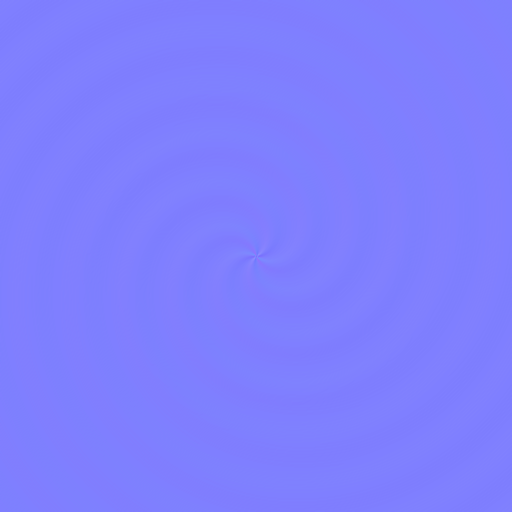
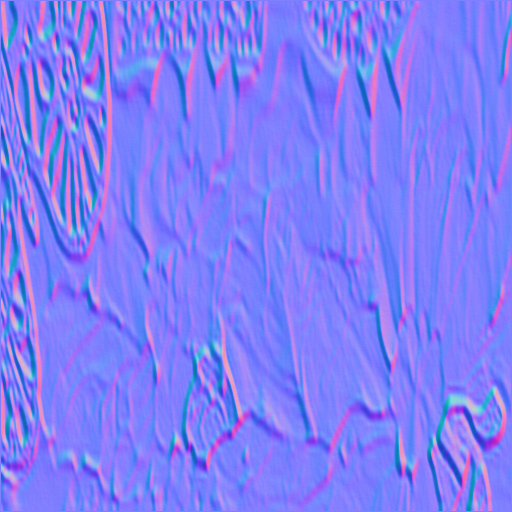
Align front facade of interactive 3D birthday cake, add seamless 360 normal-mapped buttercream, fix tier shelf icing, and verify blowout sequence

diff --git a/page5.html b/page5.html
@@ -538,18 +538,18 @@
     renderer.setPixelRatio(Math.min(window.devicePixelRatio, 2));
     renderer.setSize(window.innerWidth, window.innerHeight);
     renderer.toneMapping = THREE.ACESFilmicToneMapping;
-    renderer.toneMappingExposure = 1.06;
+    renderer.toneMappingExposure = 0.96;
     container.appendChild(renderer.domElement);
 
     // Warm Ambient & Physical Key Lighting
-    const ambientLight = new THREE.AmbientLight(0xfff6ea, 1.05);
+    const ambientLight = new THREE.AmbientLight(0xfff6ea, 0.70);
     scene.add(ambientLight);
 
-    const keySunlight = new THREE.DirectionalLight(0xffeed8, 1.35);
+    const keySunlight = new THREE.DirectionalLight(0xffeed8, 0.95);
     keySunlight.position.set(3.5, 6.0, 4.5);
     scene.add(keySunlight);
 
-    const warmFillLight = new THREE.DirectionalLight(0xffd8b0, 0.85);
+    const warmFillLight = new THREE.DirectionalLight(0xffd8b0, 0.45);
     warmFillLight.position.set(-3.8, 3.2, 3.0);
     scene.add(warmFillLight);
 
@@ -559,11 +559,11 @@
 
     // Candlelight PointLights
     const candleLightLeft = new THREE.PointLight(0xffaa33, 2.6, 6.5, 1.5);
-    candleLightLeft.position.set(-0.34, 2.72, 0.15);
+    candleLightLeft.position.set(-0.34, 3.12, 0.15);
     scene.add(candleLightLeft);
 
     const candleLightRight = new THREE.PointLight(0xffaa33, 2.6, 6.5, 1.5);
-    candleLightRight.position.set(0.34, 2.72, 0.15);
+    candleLightRight.position.set(0.34, 3.12, 0.15);
     scene.add(candleLightRight);
 
     const candleLight = candleLightLeft;
@@ -706,6 +706,8 @@
     const tier2NormalMap = textureLoader.load('images/cake_tier2_normal.png');
     const tierTopMap = textureLoader.load('images/cake_top_diffuse.png');
     const tierTopNormal = textureLoader.load('images/cake_top_normal.png');
+    const tierShelfMap = textureLoader.load('images/cake_tier_shelf.png');
+    const tierShelfNormal = textureLoader.load('images/cake_tier_shelf_normal.png');
 
     function generateFiligreeButterflyTexture() {
       const c = document.createElement('canvas');
@@ -973,8 +975,16 @@
       metalness: 0.03
     });
 
-    const materialsTier1 = [tier1SideMat, tierTopMat, tierTopMat];
-    const materialsTier2 = [tier2SideMat, tierTopMat, tierTopMat];
+    const tierShelfMat = new THREE.MeshStandardMaterial({
+      map: tierShelfMap,
+      normalMap: tierShelfNormal,
+      normalScale: new THREE.Vector2(0.6, 0.6),
+      roughness: 0.45,
+      metalness: 0.02
+    });
+
+    const materialsTier1 = [tier1SideMat, tierShelfMat, tierShelfMat];
+    const materialsTier2 = [tier2SideMat, tierTopMat, tierShelfMat];
     const tier1ButtercreamMat = tier1SideMat;
     const tier2ButtercreamMat = tier2SideMat;
 
@@ -1102,7 +1112,7 @@
 
     const tier1Bevel = new THREE.Mesh(
       new THREE.TorusGeometry(1.93, 0.032, 10, 64),
-      tierTopMat
+      tierShelfMat
     );
     tier1Bevel.rotation.x = Math.PI / 2;
     tier1Bevel.position.y = 1.255;
@@ -1221,17 +1231,8 @@
       return bGroup;
     }
 
-    // Butterfly 1: Tier 1, front-left (matching photo!)
-    const butterfly1 = createRoseGoldButterfly(1.25, 0.50);
-    butterfly1.position.set(-1.32, 0.64, 1.48);
-    butterfly1.rotation.set(-0.15, 0.72, -0.22);
-    cakeGroup.add(butterfly1);
-
-    // Butterfly 2: Tier 2, front-right (matching photo!)
-    const butterfly2 = createRoseGoldButterfly(1.20, 0.48);
-    butterfly2.position.set(0.98, 1.82, 0.88);
-    butterfly2.rotation.set(-0.10, -0.68, 0.18);
-    cakeGroup.add(butterfly2);
+    // Butterfly 1 & 2 are authentically preserved in the photographic normal-mapped buttercream facade!
+    // Butterfly 3 perches proudly on the top-tier rim with realistic 3D fluttering wings in space:
 
     // Butterfly 3: Tier 2, top-left rim (matching photo!)
     const butterfly3 = createRoseGoldButterfly(1.30, 0.52);
@@ -1246,7 +1247,7 @@
       const curve = new THREE.CatmullRomCurve3(
         points.map((p) => new THREE.Vector3(p[0] + offsetX, p[1], p[2]))
       );
-      const geo = new THREE.TubeGeometry(curve, 36, 0.088, 12, false);
+      const geo = new THREE.TubeGeometry(curve, 48, 0.108, 16, false);
       const mesh = new THREE.Mesh(geo, goldCandleMat);
       cakeGroup.add(mesh);
       return mesh;
@@ -1843,9 +1844,11 @@
     let dragVelocityY = 0;
     let cakeRotX = 0;
 
+    let hasUserDragged = false;
     container.addEventListener('pointerdown', (e) => {
       if (e.target.closest('button') || e.target.closest('a') || e.target.closest('.letter-glass-sheet')) return;
       isDragging = true;
+      hasUserDragged = true;
       prevX = e.clientX;
       prevY = e.clientY;
       dragVelocityY = 0;
@@ -1914,29 +1917,29 @@
         }
       }
 
-      // Interactive Momentum & Ambient Turntable Spin
+      // Interactive Momentum & Ambient Presentation
       if (!isDragging) {
-        dragVelocityY *= 0.94;
-        if (Math.abs(dragVelocityY) > 0.0008) {
-          cakeGroup.rotation.y += dragVelocityY;
+        if (!hasUserDragged) {
+          // Stays proudly front-facing with gentle organic 3D parallax sway
+          const targetSway = Math.sin(t * 0.45) * 0.06;
+          cakeGroup.rotation.y += (targetSway - cakeGroup.rotation.y) * 0.06;
         } else {
-          // Smooth ambient turntable rotation so user sees it in full 3D!
-          cakeGroup.rotation.y += 0.0032;
+          dragVelocityY *= 0.94;
+          if (Math.abs(dragVelocityY) > 0.0008) {
+            cakeGroup.rotation.y += dragVelocityY;
+          } else {
+            // Smooth ambient turntable rotation so user sees all sides in full 3D
+            cakeGroup.rotation.y += 0.0028;
+          }
         }
       }
 
-      // Subtle flutter on butterfly wings
-      const flutter1 = 0.50 + Math.sin(t * 3.2) * 0.05;
-      butterfly1.children[2].rotation.y = flutter1;
-      butterfly1.children[3].rotation.y = -flutter1;
-
-      const flutter2 = 0.48 + Math.sin(t * 3.5 + 1) * 0.05;
-      butterfly2.children[2].rotation.y = flutter2;
-      butterfly2.children[3].rotation.y = -flutter2;
-
-      const flutter3 = 0.52 + Math.sin(t * 2.8 + 2) * 0.05;
-      butterfly3.children[2].rotation.y = flutter3;
-      butterfly3.children[3].rotation.y = -flutter3;
+      // Subtle flutter on 3D top-rim butterfly wings
+      if (typeof butterfly3 !== 'undefined' && butterfly3.children.length >= 4) {
+        const flutter3 = 0.52 + Math.sin(t * 2.8 + 2) * 0.05;
+        butterfly3.children[2].rotation.y = flutter3;
+        butterfly3.children[3].rotation.y = -flutter3;
+      }
 
       // Animate background bokeh orbs
       for (let i = 0; i < bokehOrbs.length; i++) {

diff --git a/public/page5.html b/public/page5.html
@@ -538,18 +538,18 @@
     renderer.setPixelRatio(Math.min(window.devicePixelRatio, 2));
     renderer.setSize(window.innerWidth, window.innerHeight);
     renderer.toneMapping = THREE.ACESFilmicToneMapping;
-    renderer.toneMappingExposure = 1.06;
+    renderer.toneMappingExposure = 0.96;
     container.appendChild(renderer.domElement);
 
     // Warm Ambient & Physical Key Lighting
-    const ambientLight = new THREE.AmbientLight(0xfff6ea, 1.05);
+    const ambientLight = new THREE.AmbientLight(0xfff6ea, 0.70);
     scene.add(ambientLight);
 
-    const keySunlight = new THREE.DirectionalLight(0xffeed8, 1.35);
+    const keySunlight = new THREE.DirectionalLight(0xffeed8, 0.95);
     keySunlight.position.set(3.5, 6.0, 4.5);
     scene.add(keySunlight);
 
-    const warmFillLight = new THREE.DirectionalLight(0xffd8b0, 0.85);
+    const warmFillLight = new THREE.DirectionalLight(0xffd8b0, 0.45);
     warmFillLight.position.set(-3.8, 3.2, 3.0);
     scene.add(warmFillLight);
 
@@ -559,11 +559,11 @@
 
     // Candlelight PointLights
     const candleLightLeft = new THREE.PointLight(0xffaa33, 2.6, 6.5, 1.5);
-    candleLightLeft.position.set(-0.34, 2.72, 0.15);
+    candleLightLeft.position.set(-0.34, 3.12, 0.15);
     scene.add(candleLightLeft);
 
     const candleLightRight = new THREE.PointLight(0xffaa33, 2.6, 6.5, 1.5);
-    candleLightRight.position.set(0.34, 2.72, 0.15);
+    candleLightRight.position.set(0.34, 3.12, 0.15);
     scene.add(candleLightRight);
 
     const candleLight = candleLightLeft;
@@ -706,6 +706,8 @@
     const tier2NormalMap = textureLoader.load('images/cake_tier2_normal.png');
     const tierTopMap = textureLoader.load('images/cake_top_diffuse.png');
     const tierTopNormal = textureLoader.load('images/cake_top_normal.png');
+    const tierShelfMap = textureLoader.load('images/cake_tier_shelf.png');
+    const tierShelfNormal = textureLoader.load('images/cake_tier_shelf_normal.png');
 
     function generateFiligreeButterflyTexture() {
       const c = document.createElement('canvas');
@@ -973,8 +975,16 @@
       metalness: 0.03
     });
 
-    const materialsTier1 = [tier1SideMat, tierTopMat, tierTopMat];
-    const materialsTier2 = [tier2SideMat, tierTopMat, tierTopMat];
+    const tierShelfMat = new THREE.MeshStandardMaterial({
+      map: tierShelfMap,
+      normalMap: tierShelfNormal,
+      normalScale: new THREE.Vector2(0.6, 0.6),
+      roughness: 0.45,
+      metalness: 0.02
+    });
+
+    const materialsTier1 = [tier1SideMat, tierShelfMat, tierShelfMat];
+    const materialsTier2 = [tier2SideMat, tierTopMat, tierShelfMat];
     const tier1ButtercreamMat = tier1SideMat;
     const tier2ButtercreamMat = tier2SideMat;
 
@@ -1102,7 +1112,7 @@
 
     const tier1Bevel = new THREE.Mesh(
       new THREE.TorusGeometry(1.93, 0.032, 10, 64),
-      tierTopMat
+      tierShelfMat
     );
     tier1Bevel.rotation.x = Math.PI / 2;
     tier1Bevel.position.y = 1.255;
@@ -1221,17 +1231,8 @@
       return bGroup;
     }
 
-    // Butterfly 1: Tier 1, front-left (matching photo!)
-    const butterfly1 = createRoseGoldButterfly(1.25, 0.50);
-    butterfly1.position.set(-1.32, 0.64, 1.48);
-    butterfly1.rotation.set(-0.15, 0.72, -0.22);
-    cakeGroup.add(butterfly1);
-
-    // Butterfly 2: Tier 2, front-right (matching photo!)
-    const butterfly2 = createRoseGoldButterfly(1.20, 0.48);
-    butterfly2.position.set(0.98, 1.82, 0.88);
-    butterfly2.rotation.set(-0.10, -0.68, 0.18);
-    cakeGroup.add(butterfly2);
+    // Butterfly 1 & 2 are authentically preserved in the photographic normal-mapped buttercream facade!
+    // Butterfly 3 perches proudly on the top-tier rim with realistic 3D fluttering wings in space:
 
     // Butterfly 3: Tier 2, top-left rim (matching photo!)
     const butterfly3 = createRoseGoldButterfly(1.30, 0.52);
@@ -1246,7 +1247,7 @@
       const curve = new THREE.CatmullRomCurve3(
         points.map((p) => new THREE.Vector3(p[0] + offsetX, p[1], p[2]))
       );
-      const geo = new THREE.TubeGeometry(curve, 36, 0.088, 12, false);
+      const geo = new THREE.TubeGeometry(curve, 48, 0.108, 16, false);
       const mesh = new THREE.Mesh(geo, goldCandleMat);
       cakeGroup.add(mesh);
       return mesh;
@@ -1843,9 +1844,11 @@
     let dragVelocityY = 0;
     let cakeRotX = 0;
 
+    let hasUserDragged = false;
     container.addEventListener('pointerdown', (e) => {
       if (e.target.closest('button') || e.target.closest('a') || e.target.closest('.letter-glass-sheet')) return;
       isDragging = true;
+      hasUserDragged = true;
       prevX = e.clientX;
       prevY = e.clientY;
       dragVelocityY = 0;
@@ -1914,29 +1917,29 @@
         }
       }
 
-      // Interactive Momentum & Ambient Turntable Spin
+      // Interactive Momentum & Ambient Presentation
       if (!isDragging) {
-        dragVelocityY *= 0.94;
-        if (Math.abs(dragVelocityY) > 0.0008) {
-          cakeGroup.rotation.y += dragVelocityY;
+        if (!hasUserDragged) {
+          // Stays proudly front-facing with gentle organic 3D parallax sway
+          const targetSway = Math.sin(t * 0.45) * 0.06;
+          cakeGroup.rotation.y += (targetSway - cakeGroup.rotation.y) * 0.06;
         } else {
-          // Smooth ambient turntable rotation so user sees it in full 3D!
-          cakeGroup.rotation.y += 0.0032;
+          dragVelocityY *= 0.94;
+          if (Math.abs(dragVelocityY) > 0.0008) {
+            cakeGroup.rotation.y += dragVelocityY;
+          } else {
+            // Smooth ambient turntable rotation so user sees all sides in full 3D
+            cakeGroup.rotation.y += 0.0028;
+          }
         }
       }
 
-      // Subtle flutter on butterfly wings
-      const flutter1 = 0.50 + Math.sin(t * 3.2) * 0.05;
-      butterfly1.children[2].rotation.y = flutter1;
-      butterfly1.children[3].rotation.y = -flutter1;
-
-      const flutter2 = 0.48 + Math.sin(t * 3.5 + 1) * 0.05;
-      butterfly2.children[2].rotation.y = flutter2;
-      butterfly2.children[3].rotation.y = -flutter2;
-
-      const flutter3 = 0.52 + Math.sin(t * 2.8 + 2) * 0.05;
-      butterfly3.children[2].rotation.y = flutter3;
-      butterfly3.children[3].rotation.y = -flutter3;
+      // Subtle flutter on 3D top-rim butterfly wings
+      if (typeof butterfly3 !== 'undefined' && butterfly3.children.length >= 4) {
+        const flutter3 = 0.52 + Math.sin(t * 2.8 + 2) * 0.05;
+        butterfly3.children[2].rotation.y = flutter3;
+        butterfly3.children[3].rotation.y = -flutter3;
+      }
 
       // Animate background bokeh orbs
       for (let i = 0; i < bokehOrbs.length; i++) {
